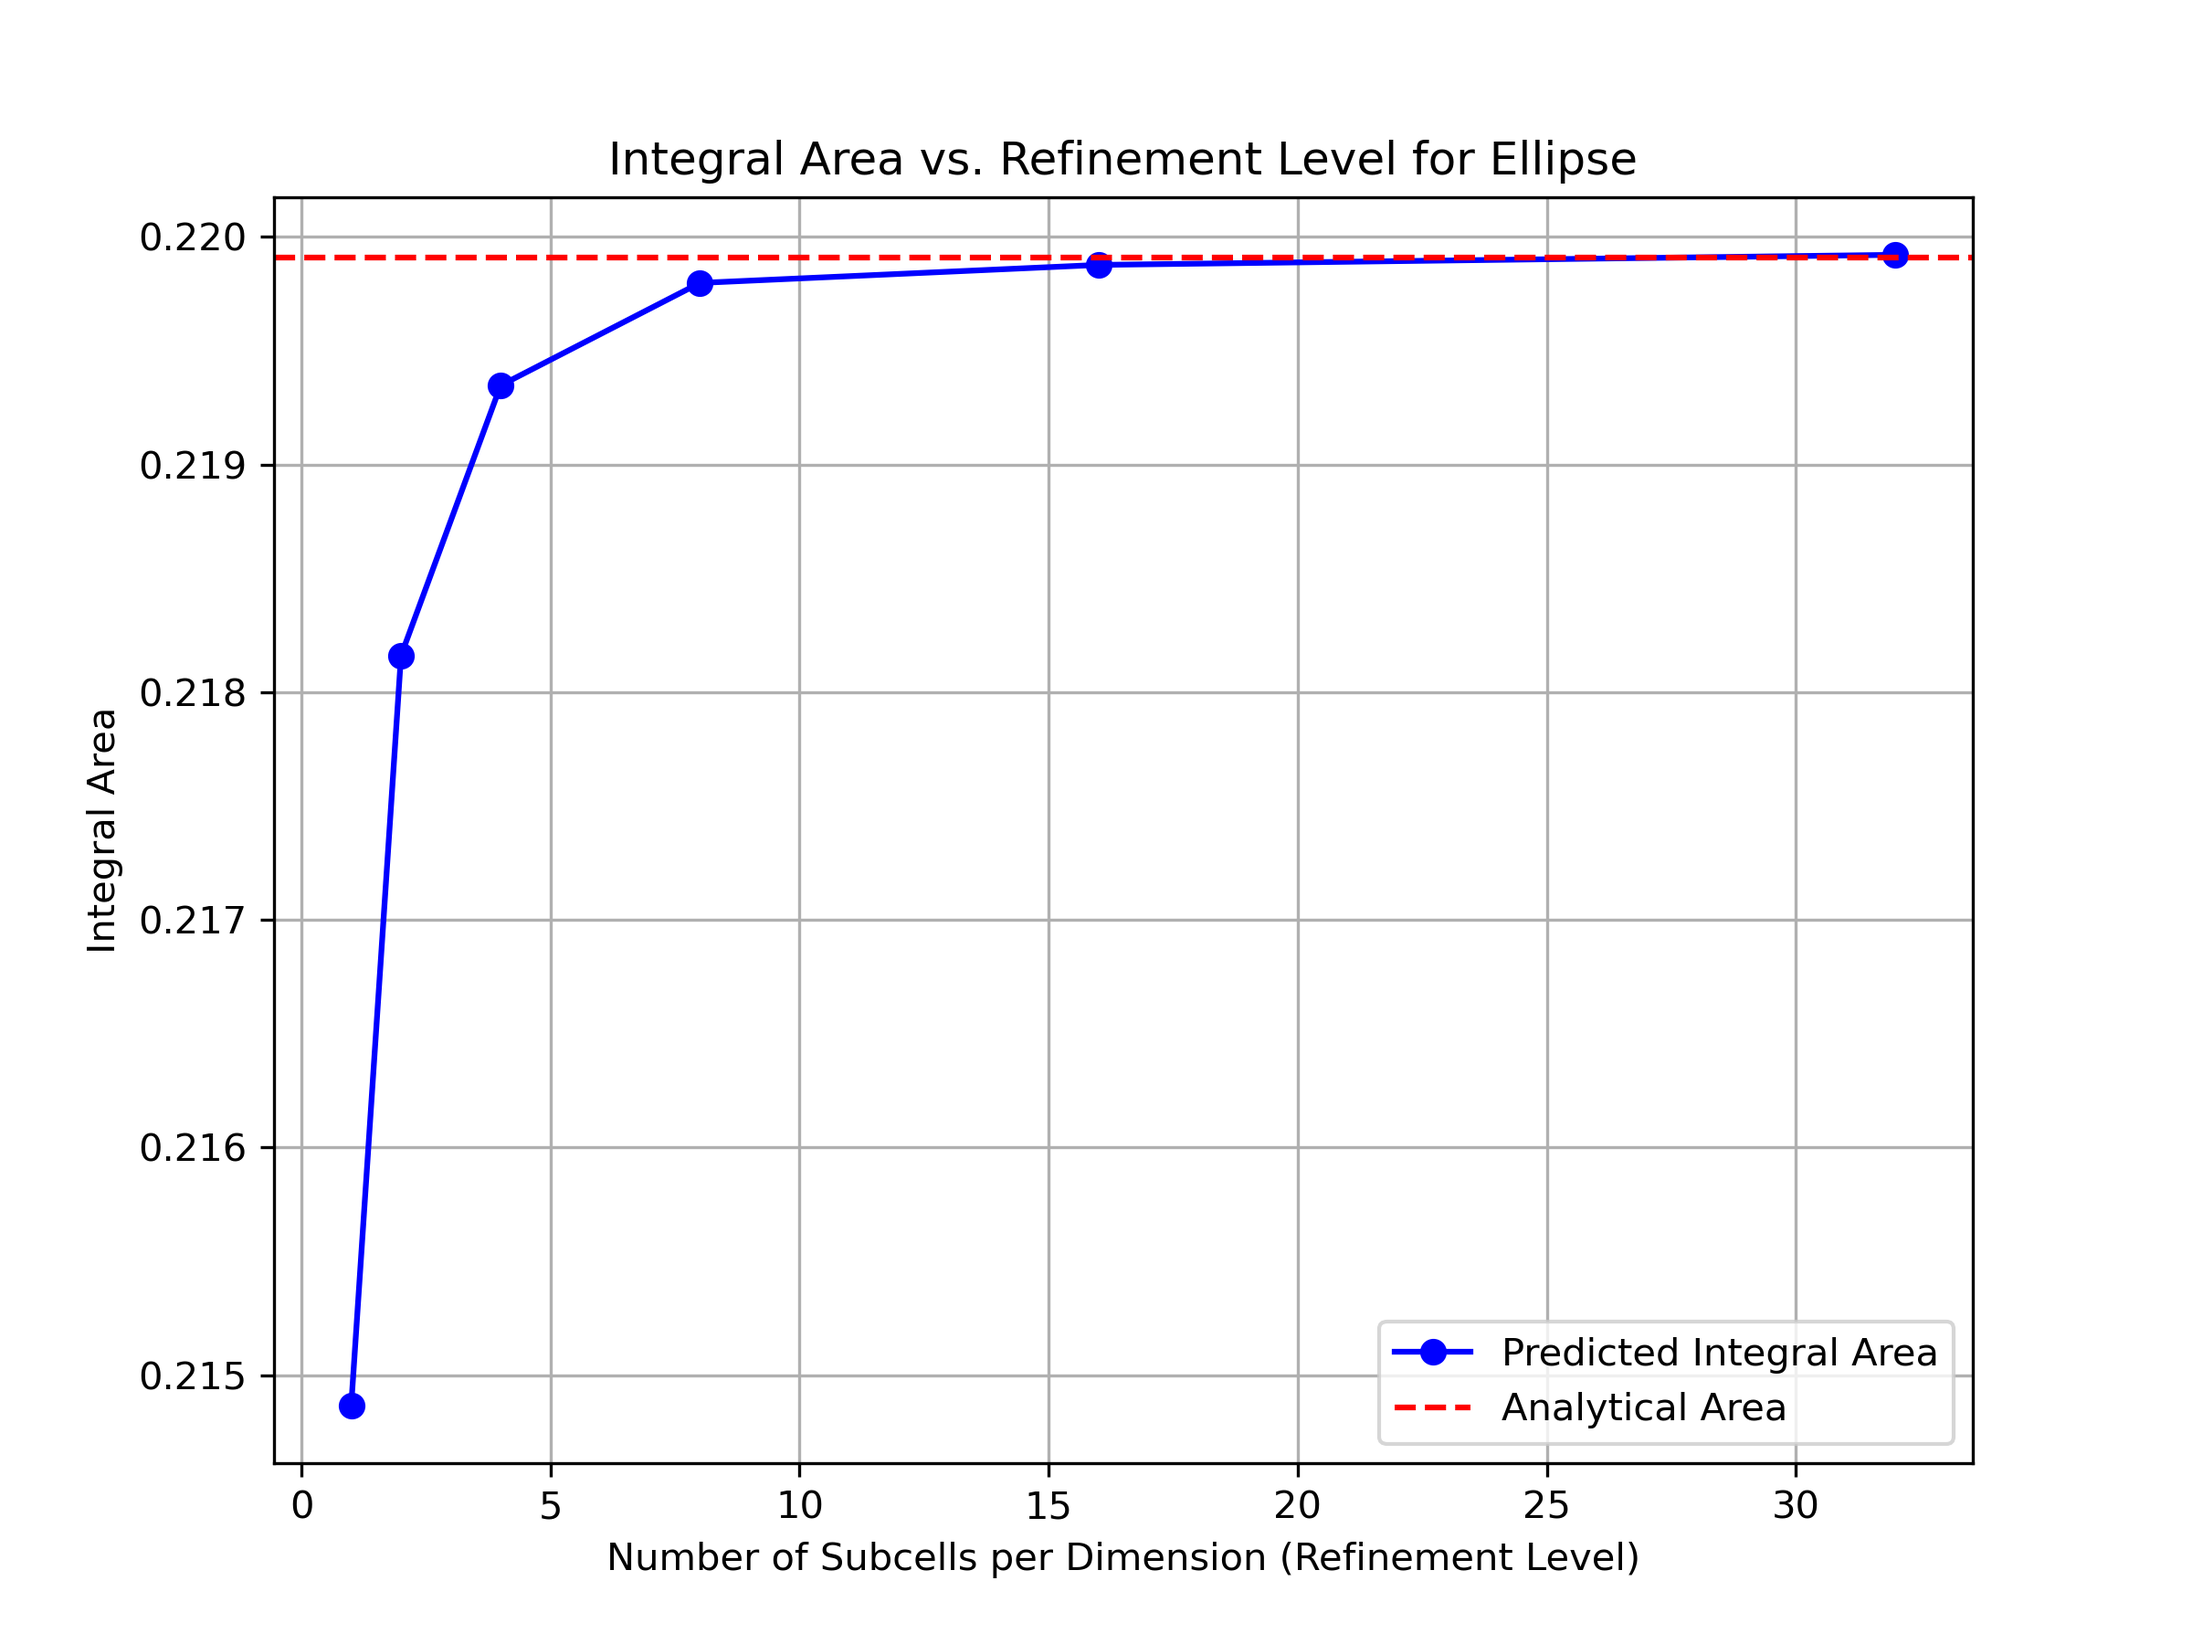
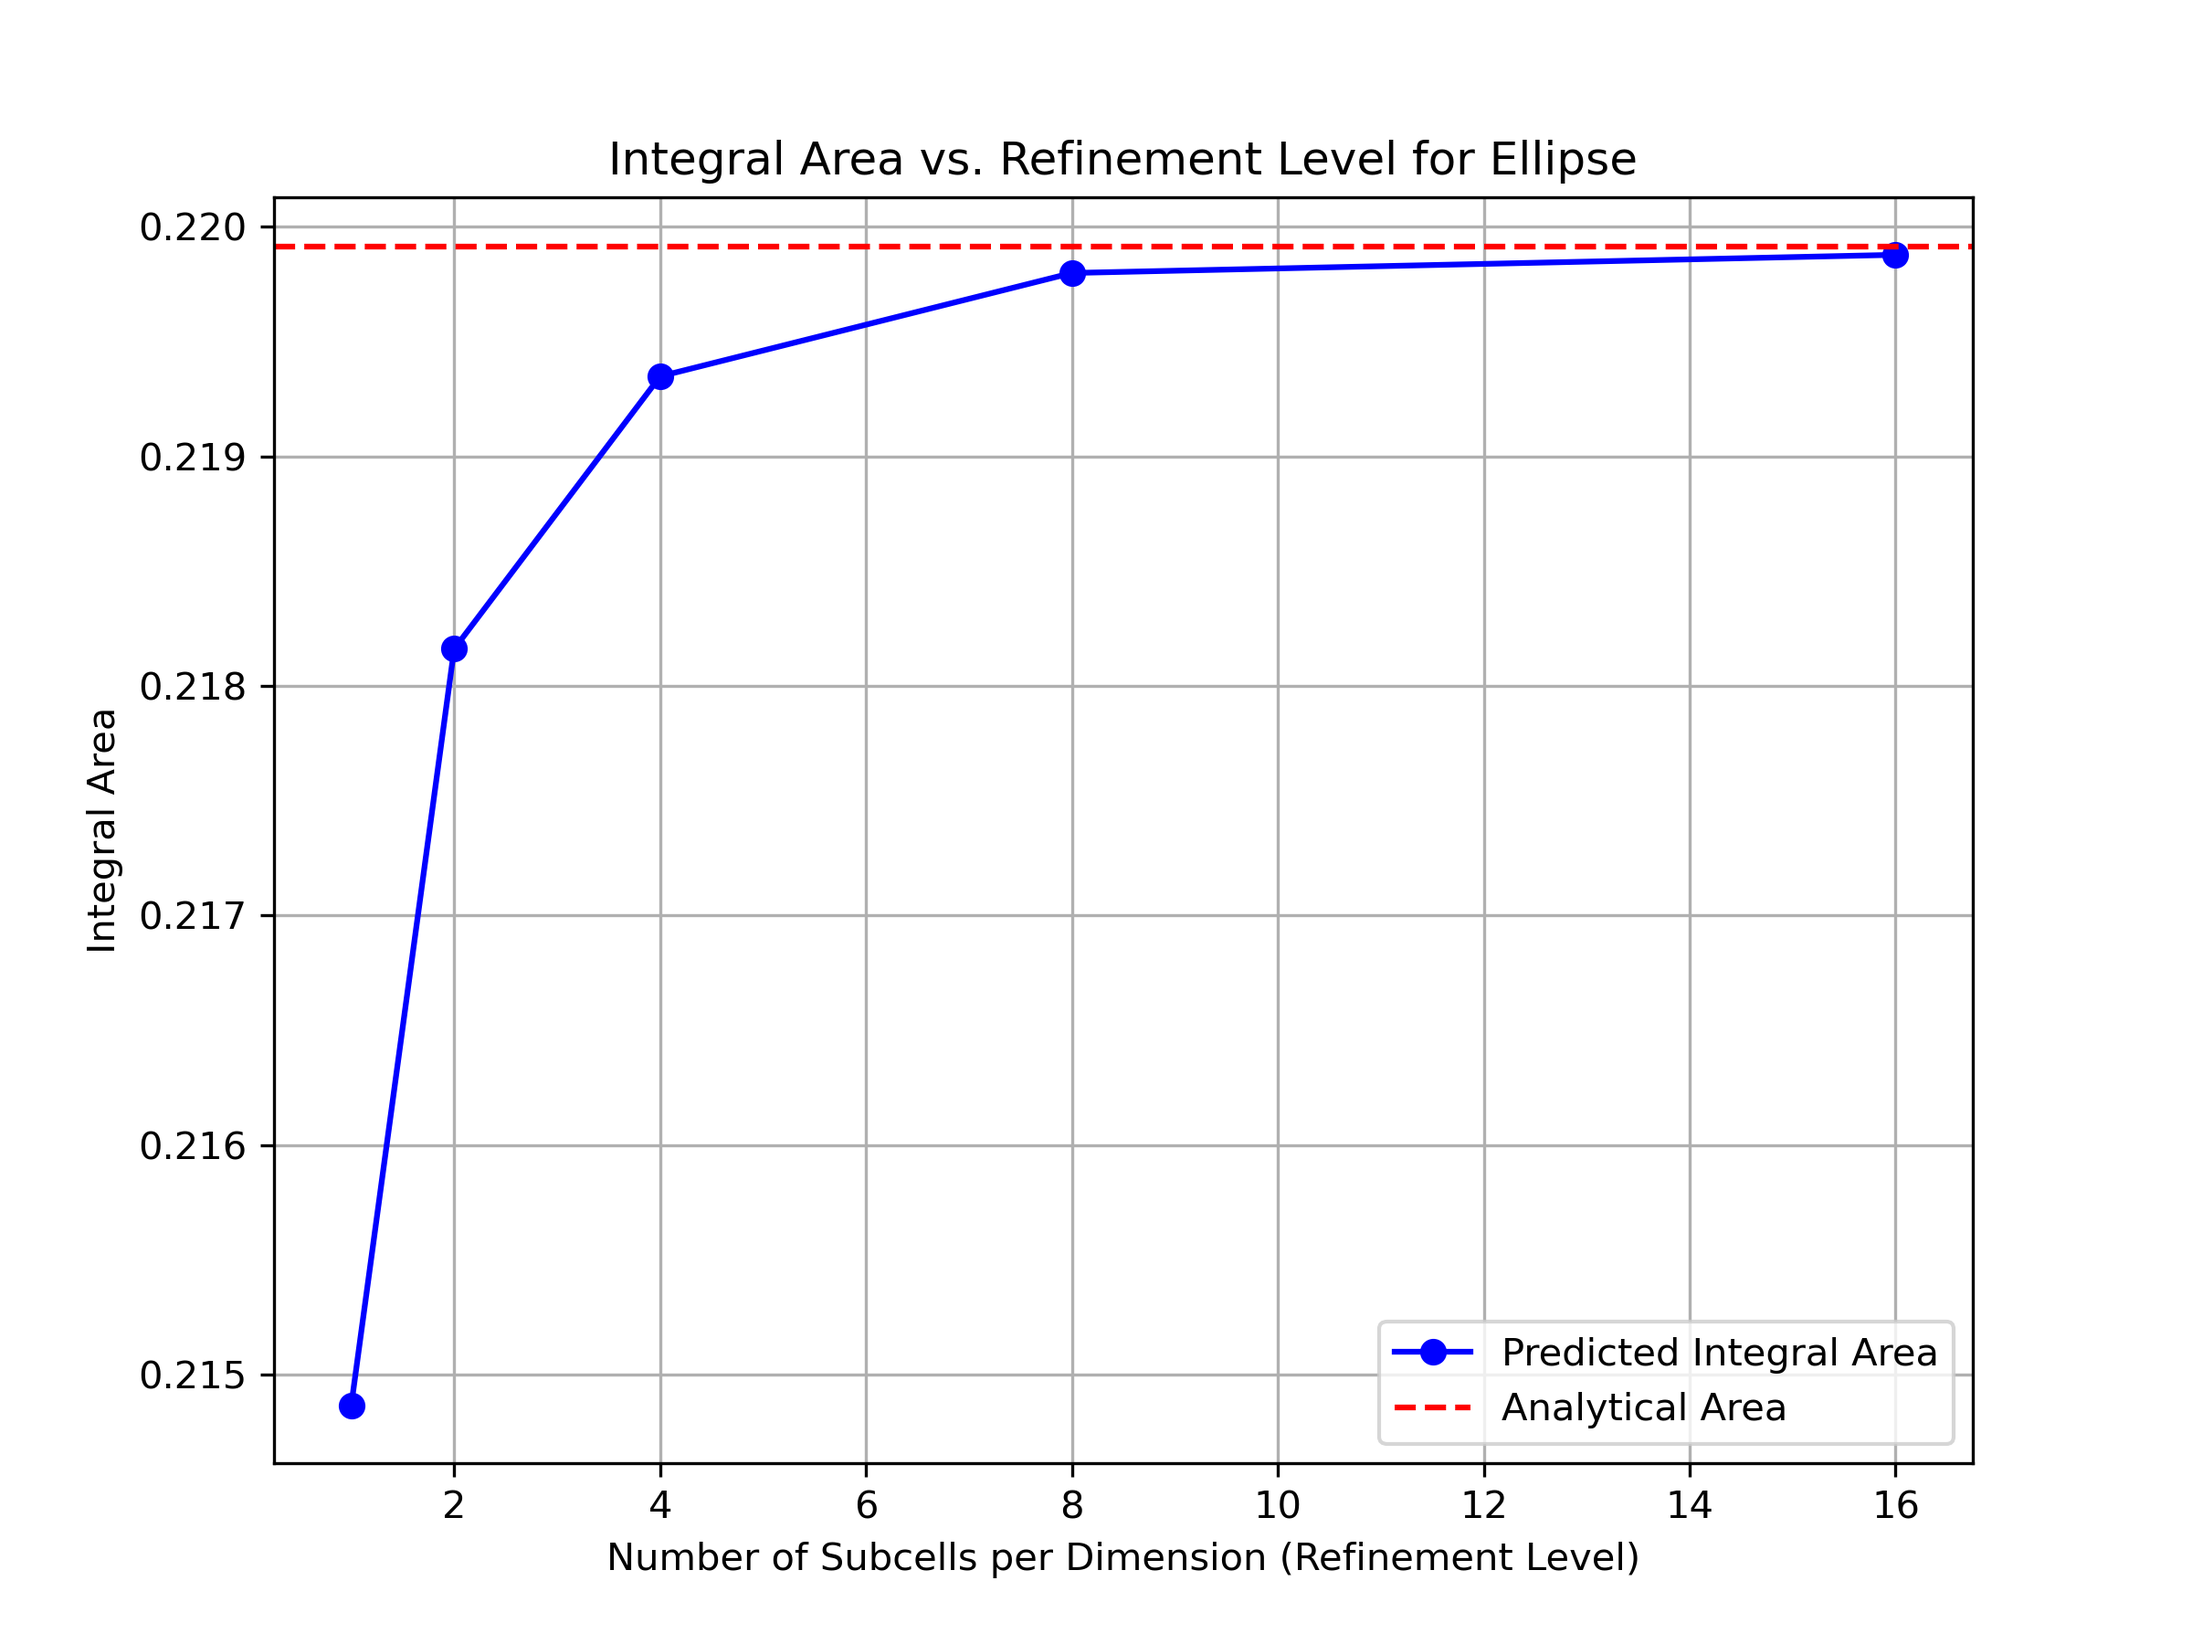
regular commit

diff --git a/Scripts/CNN/CNN_V1/regression.py b/Scripts/CNN/CNN_V1/regression.py
@@ -7,7 +7,7 @@ from hrefinement_ellipse import compute_error_ellipse
 from hrefinement_triangle import compute_error_triangle
 
 def main():
-    output_folder = r"C:\Git\MasterThesis\Scripts\CNN\CNN_V1\plt\Triangle"
+    output_folder = r"C:\Git\MasterThesis\Scripts\CNN\CNN_V1\plt\triangle"
     
     # Get error_list and refinement_levels from compute_area module
     error_list, refinement_levels = compute_error_triangle()

diff --git a/Scripts/CNN/CNN_V1/hrefinement_ellipse.py b/Scripts/CNN/CNN_V1/hrefinement_ellipse.py
@@ -272,7 +272,7 @@ def compute_error_ellipse():
         refinement_levels (list): List of refinement levels used.
     """
     analytical_area = math.pi * a * b  # Analytical area for the ellipse
-    refinement_levels = [1, 2, 4, 8, 16, 32]
+    refinement_levels = [1, 2, 4, 8, 16]
     error_list = []  # Relative error for each refinement level.
     area_list = []   # Predicted integral areas.
 

diff --git a/Scripts/CNN/CNN_V1/hrefinement_triangle.py b/Scripts/CNN/CNN_V1/hrefinement_triangle.py
@@ -256,7 +256,7 @@ def compute_error_triangle():
     analytical_area = 0.0  
     analytical_area = 0.5*1.5*1.5
 
-    refinement_levels = [1, 2, 4, 8, 16, 32, 64, 128, 256]
+    refinement_levels = [1, 2, 4, 8, 16]
     error_list = []
     area_list = []
 
